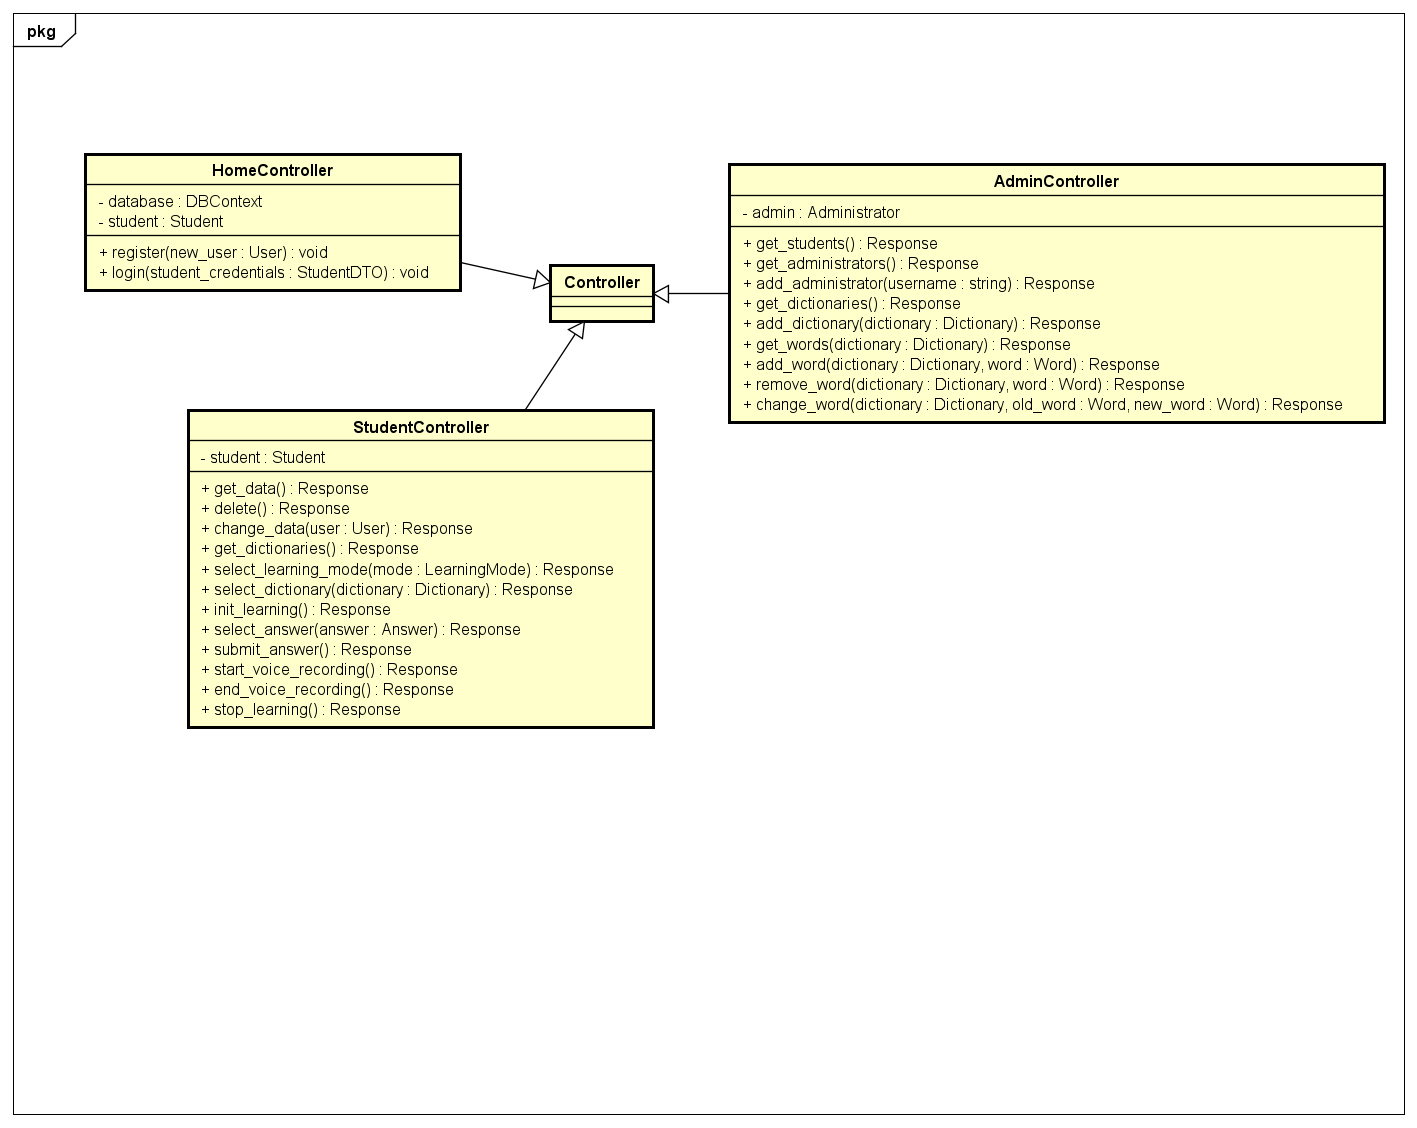
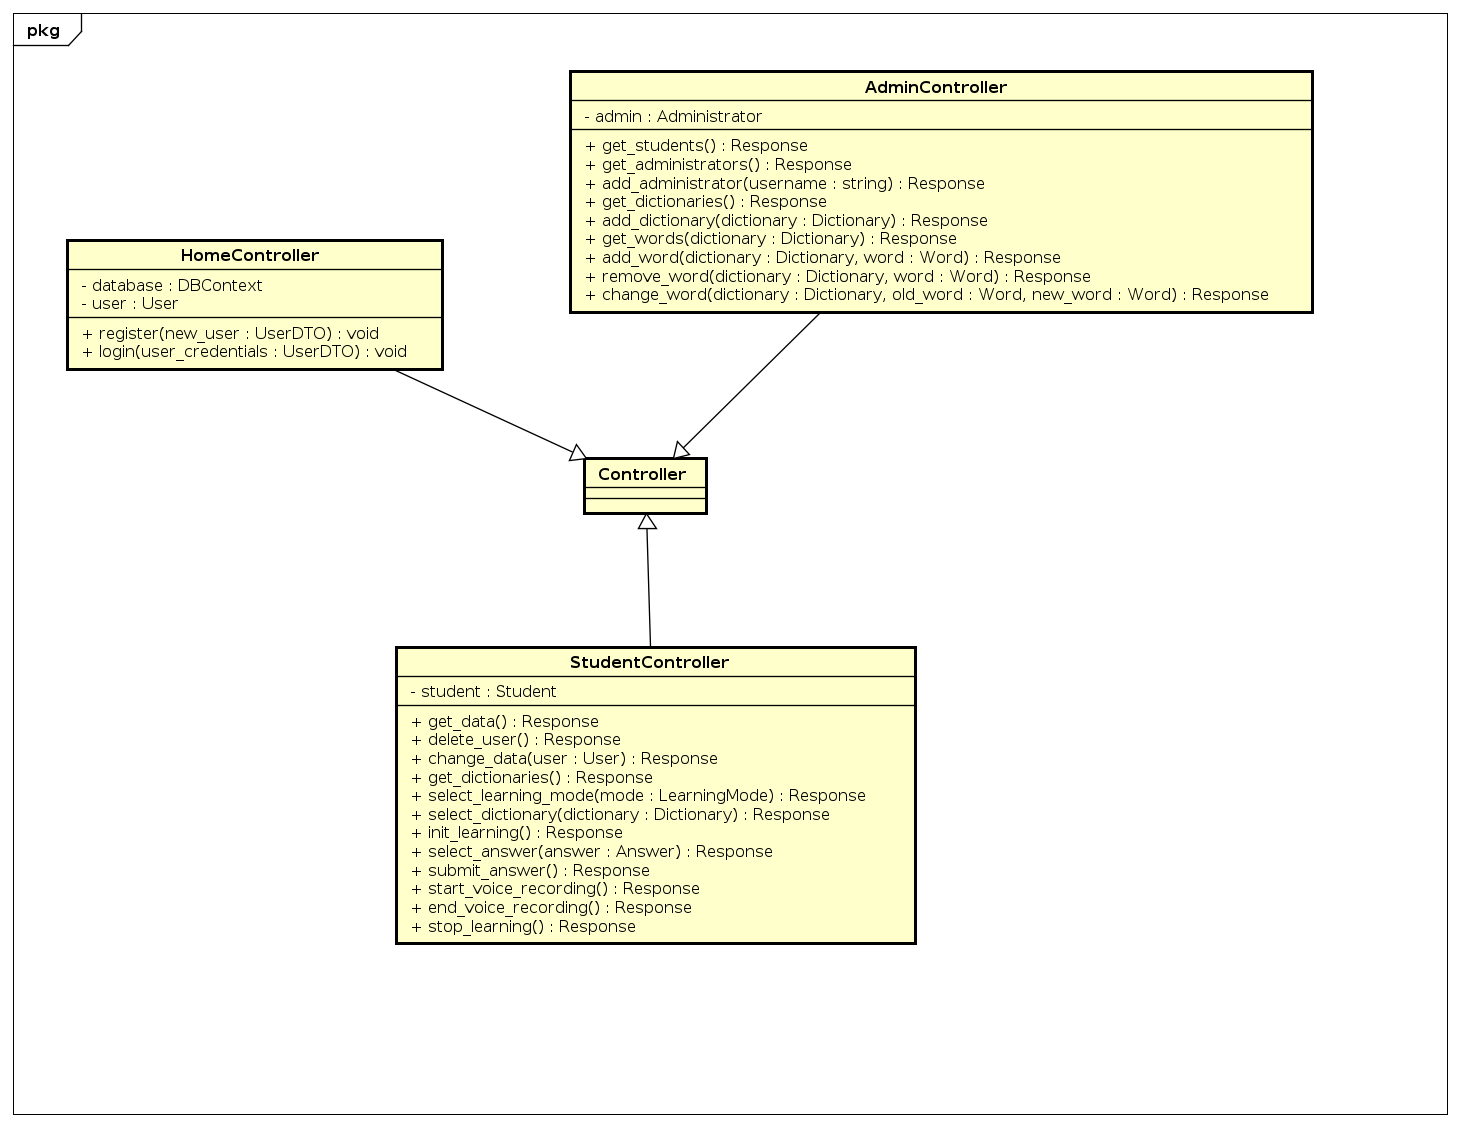
uredeni dijagrami razreda

diff --git a/Dokumentacija/Dnevnik_promjena_dokumentacije.tex b/Dokumentacija/Dnevnik_promjena_dokumentacije.tex
@@ -19,6 +19,7 @@
 			0.4.2 & Napravljeni treći i četvrti sekvencijski dijagrami & Josip Ćurić & 30.10.2023. \\[3pt] \hline
 			0.5 & Arhitektura i dizajn sustava & Lovro Švenda & 4.11.2023. \\[3pt] \hline
 			0.5.1 & Dodani dijagrami razreda & Kristijan Milić & 5.11.2023. \\[3pt] \hline
+			0.5.2 & Uređeni dijagrami razreda, dodane veze na dijagramu DTO-a & Jurica Runtas & 5.11.2023. \\[3pt] \hline
 		\end{longtblr}
 	
 	

diff --git a/Dokumentacija/Dodatak.tex b/Dokumentacija/Dodatak.tex
@@ -61,7 +61,7 @@
 
 				Arhitektura i dizajn sustava	 &  &  &  & 2.5 &  &  &  \\ 
 				Baza podataka				&  &  &  &  &  & 0.5 &   \\ 
-				Dijagram razreda 			&  &  &  &  & 3 &  &   \\ 
+				Dijagram razreda 			& 1.5 &  &  &  & 3 &  &   \\ 
 				Dijagram stanja				&  &  &  &  &  &  &  \\ 
 				Dijagram aktivnosti 		&  &  &  &  &  &  &  \\ 
 				Dijagram komponenti			&  &  &  &  &  &  &  \\ 
